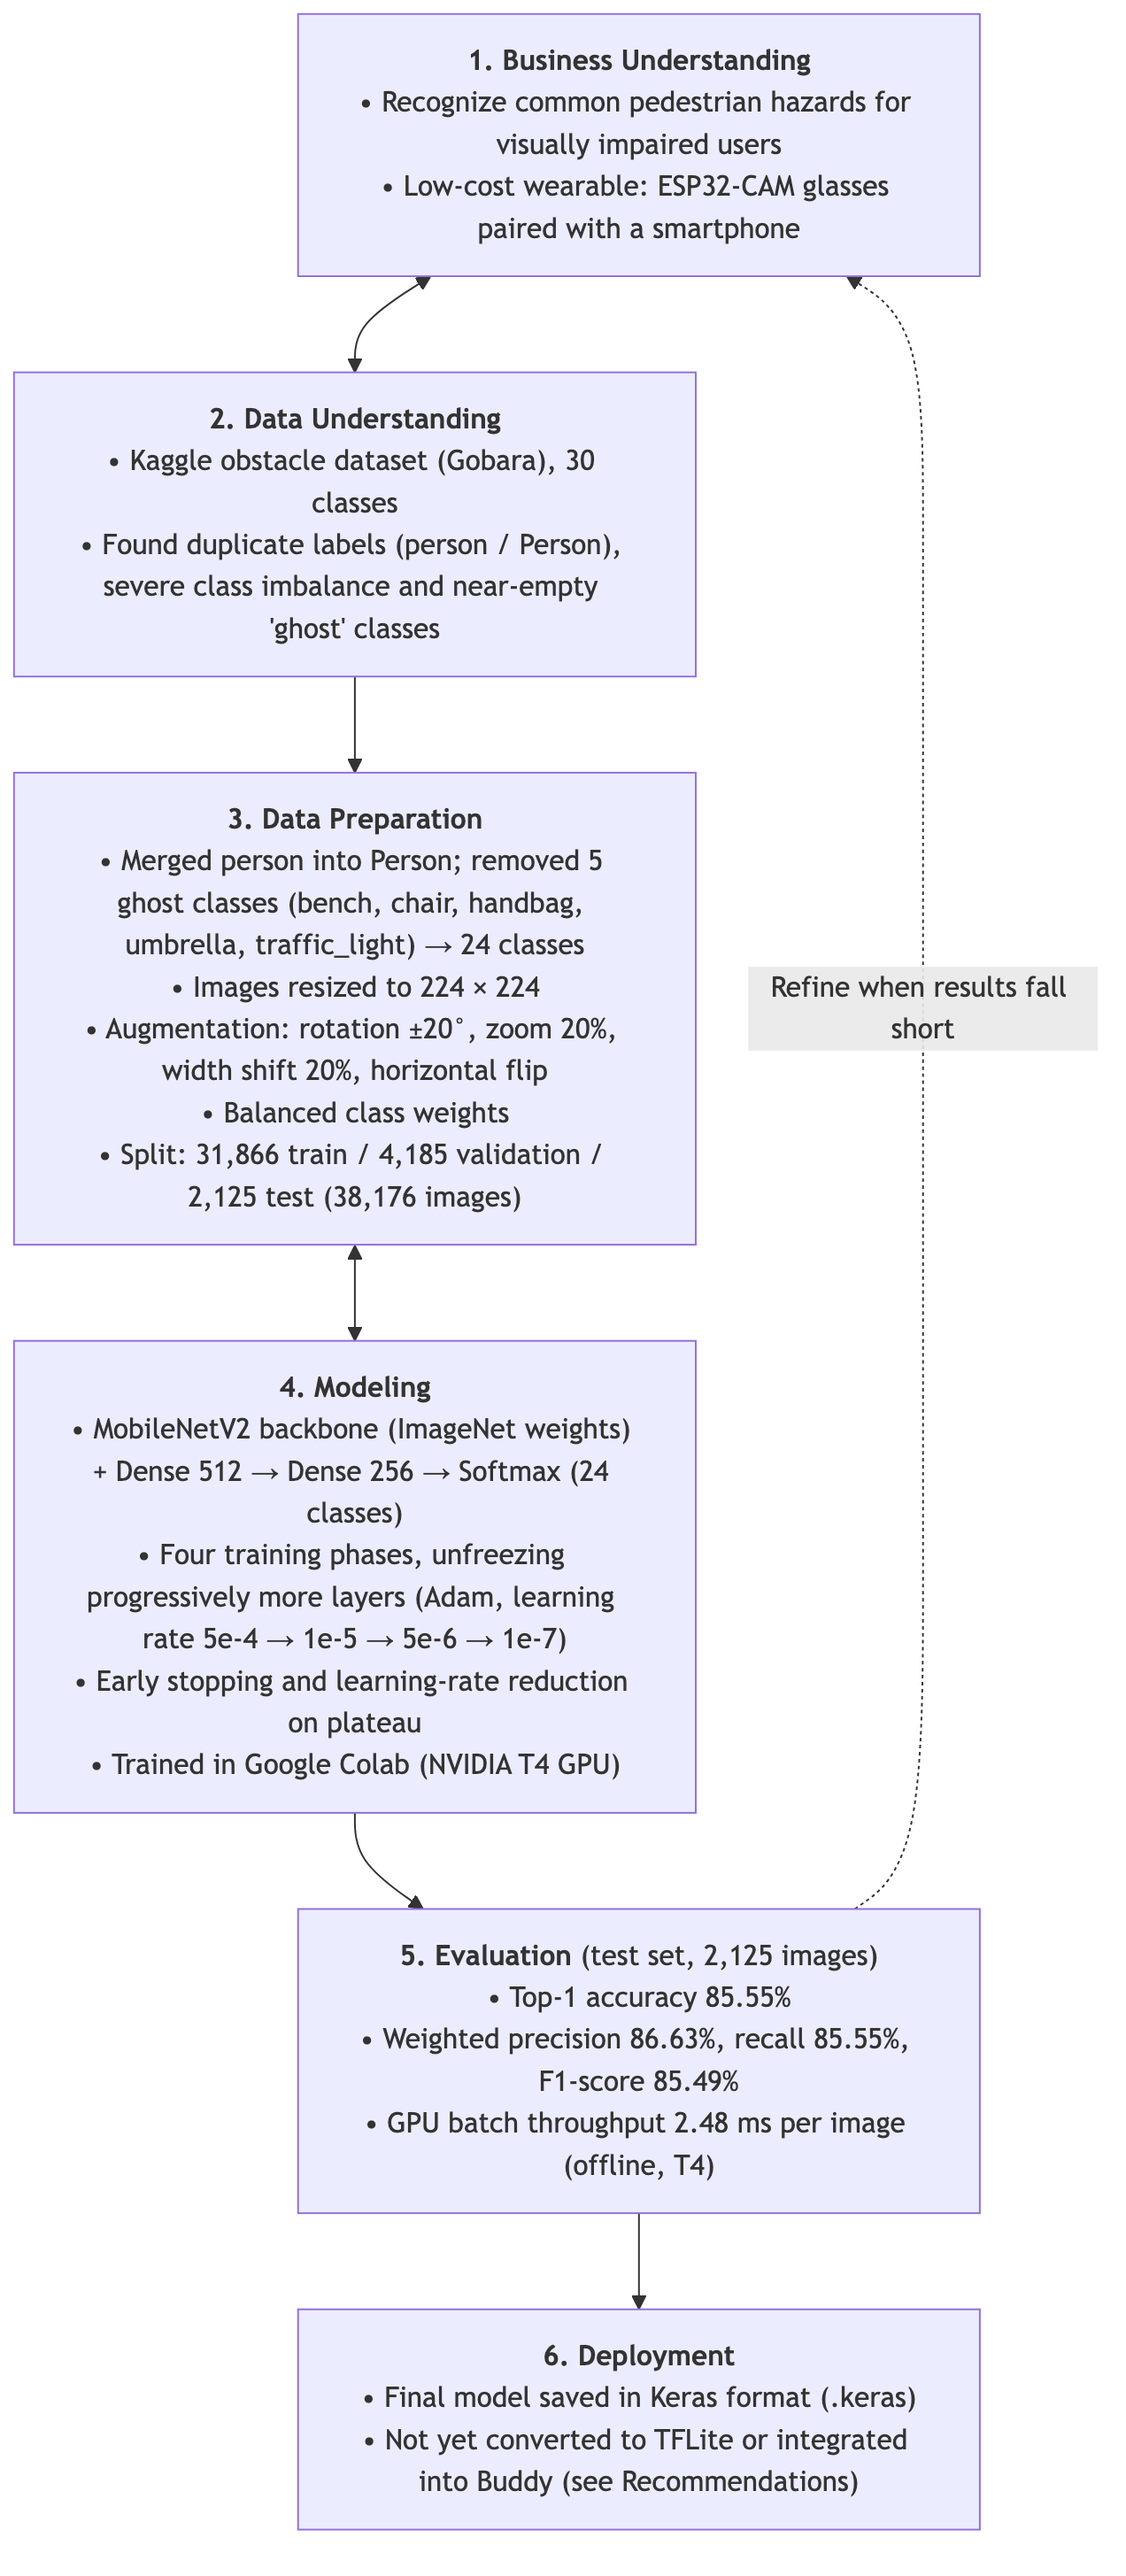
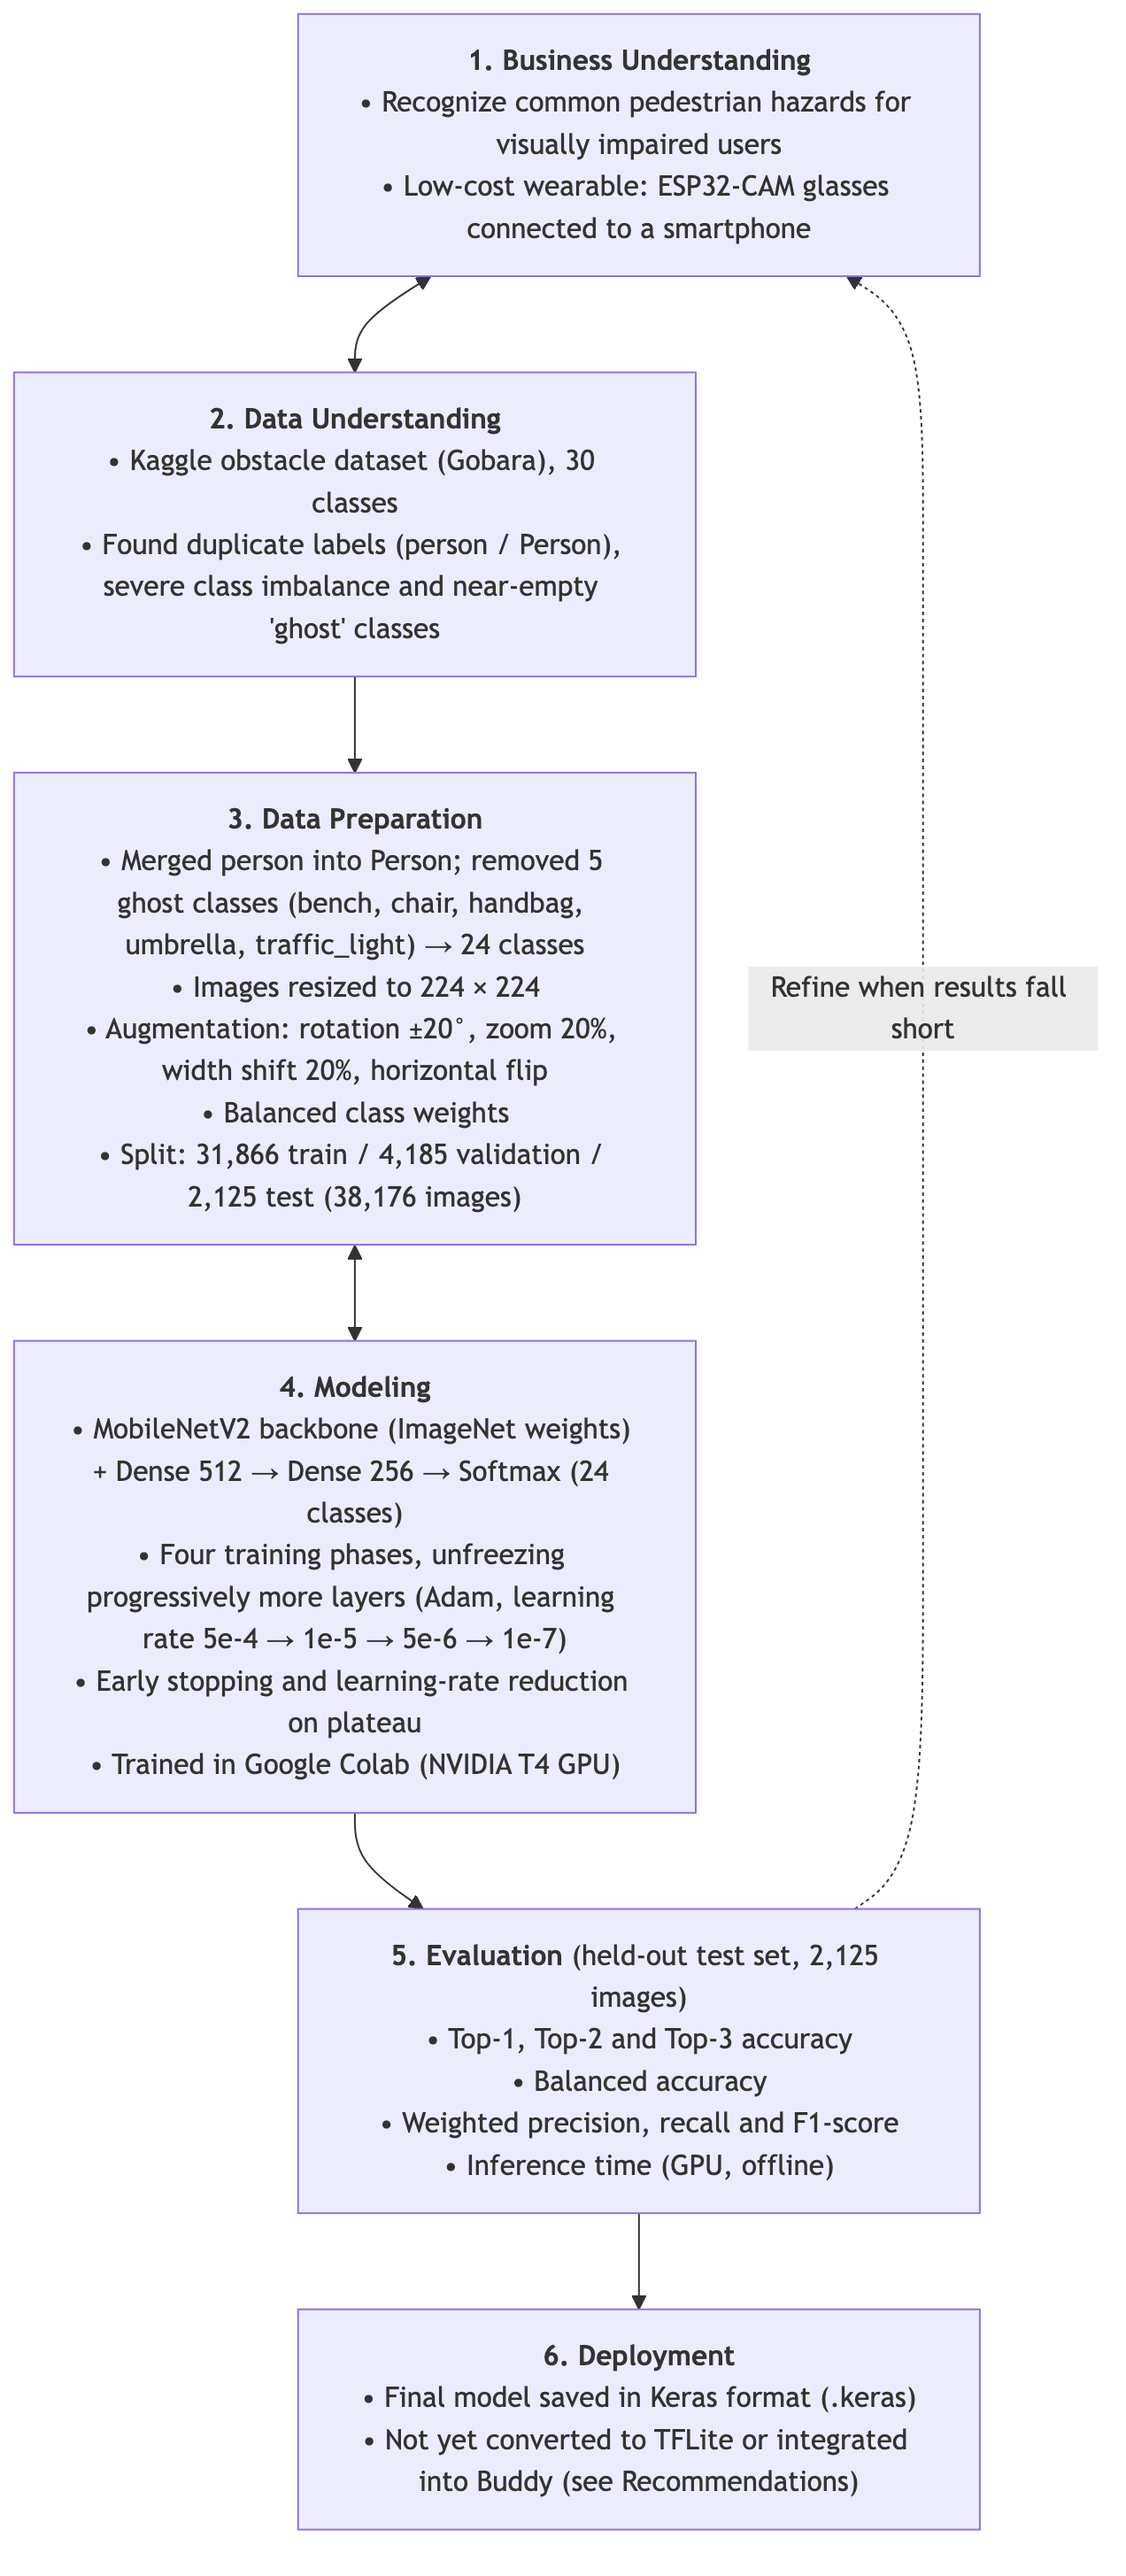
docs(figures): show metric names, not results, in CRISP-DM and transfer workflow
Both figures appear in the Method chapter, where the panel asked that
results not be reported (Magbag 1.28, 1.29).

- CRISP-DM: Evaluation lists the metrics used (Top-1/2/3 accuracy,
  balanced accuracy, weighted precision/recall/F1, GPU inference time)
  instead of their values; "paired with a smartphone" changed to
  "connected to", since the glasses are not paired to one phone.
- Transfer workflow: removed the Phase 3 and final accuracy values from
  the diagram and its note.

Changed region(s): [[0.3373, 0.7423, 0.7972, 0.866], [0.4906, 0.0619, 0.7052, 0.0928], [0.4292, 0.0619, 0.4599, 0.0928]]

diff --git a/docs/figures/07_chapter_4_training_and_cicd.md b/docs/figures/07_chapter_4_training_and_cicd.md
@@ -15,7 +15,7 @@
 Figure 4.1
 The Multi-Phase Transfer Learning and Unfreezing Workflow for the MobileNetV2 Classifier
 
-Note. Figure 4.1 shows the four-phase transfer learning workflow used in Google Colab to train the custom 24-class MobileNetV2 image classifier, from training a new classifier head on a frozen ImageNet backbone to fine-tuning all layers at very low learning rates. The final model reached 85.55% Top-1 accuracy on 2,125 test images and was saved in Keras format; it was not converted to TFLite or integrated into Buddy.
+Note. Figure 4.1 shows the four-phase transfer learning workflow used in Google Colab to train the custom 24-class MobileNetV2 image classifier, from training a new classifier head on a frozen ImageNet backbone to fine-tuning all layers at very low learning rates, followed by evaluation on the held-out test set. The final model was saved in Keras format; it was not converted to TFLite or integrated into Buddy.
 ```
 
 ---
@@ -31,11 +31,11 @@ flowchart TD
 
     P2["<b>Phase 2: Unfreeze the top 30 backbone layers</b><br/>Adam, learning rate 1e-5 · stopped early after 8 epochs (maximum 50)"]
 
-    P3["<b>Phase 3: Unfreeze all layers</b><br/>Adam, learning rate 5e-6 · maximum 150 epochs (epoch count not recorded)<br/>Test accuracy after Phase 3: 85.47%"]
+    P3["<b>Phase 3: Unfreeze all layers</b><br/>Adam, learning rate 5e-6 · maximum 150 epochs (epoch count not recorded)"]
 
     P4["<b>Phase 4: Continue from the Phase 3 model</b><br/>All layers, Adam, learning rate 1e-7 · stopped early after 21 epochs (maximum 200)"]
 
-    EVAL["<b>Final evaluation</b> (2,125 test images)<br/>Top-1 accuracy 85.55% · weighted precision 86.63%, recall 85.55%, F1-score 85.49%"]
+    EVAL["<b>Final evaluation</b> (held-out test set, 2,125 images)<br/>Top-1/2/3 accuracy, balanced accuracy, weighted precision, recall and F1-score"]
 
     SAVE["<b>Output</b><br/>Saved in Keras format (.keras)<br/>Not converted to TFLite or integrated into Buddy"]
 

diff --git a/docs/figures/02_chapter_3_methodology_lifecycle.md b/docs/figures/02_chapter_3_methodology_lifecycle.md
@@ -82,7 +82,7 @@ Note. Figure 3.2 shows the six CRISP-DM phases followed to develop the custom 24
 ```mermaid
 %%{init: {"flowchart": {"wrappingWidth": 330, "nodeSpacing": 40, "rankSpacing": 55}}}%%
 flowchart TD
-    BU["<b>1. Business Understanding</b><br/>• Recognize common pedestrian hazards for visually impaired users<br/>• Low-cost wearable: ESP32-CAM glasses paired with a smartphone"]
+    BU["<b>1. Business Understanding</b><br/>• Recognize common pedestrian hazards for visually impaired users<br/>• Low-cost wearable: ESP32-CAM glasses connected to a smartphone"]
 
     DU["<b>2. Data Understanding</b><br/>• Kaggle obstacle dataset (Gobara), 30 classes<br/>• Found duplicate labels (person / Person), severe class imbalance and near-empty 'ghost' classes"]
 
@@ -90,7 +90,7 @@ flowchart TD
 
     M["<b>4. Modeling</b><br/>• MobileNetV2 backbone (ImageNet weights) + Dense 512 → Dense 256 → Softmax (24 classes)<br/>• Four training phases, unfreezing progressively more layers (Adam, learning rate 5e-4 → 1e-5 → 5e-6 → 1e-7)<br/>• Early stopping and learning-rate reduction on plateau<br/>• Trained in Google Colab (NVIDIA T4 GPU)"]
 
-    EV["<b>5. Evaluation</b> (test set, 2,125 images)<br/>• Top-1 accuracy 85.55%<br/>• Weighted precision 86.63%, recall 85.55%, F1-score 85.49%<br/>• GPU batch throughput 2.48 ms per image (offline, T4)"]
+    EV["<b>5. Evaluation</b> (held-out test set, 2,125 images)<br/>• Top-1, Top-2 and Top-3 accuracy<br/>• Balanced accuracy<br/>• Weighted precision, recall and F1-score<br/>• Inference time (GPU, offline)"]
 
     DEP["<b>6. Deployment</b><br/>• Final model saved in Keras format (.keras)<br/>• Not yet converted to TFLite or integrated into Buddy (see Recommendations)"]
 
